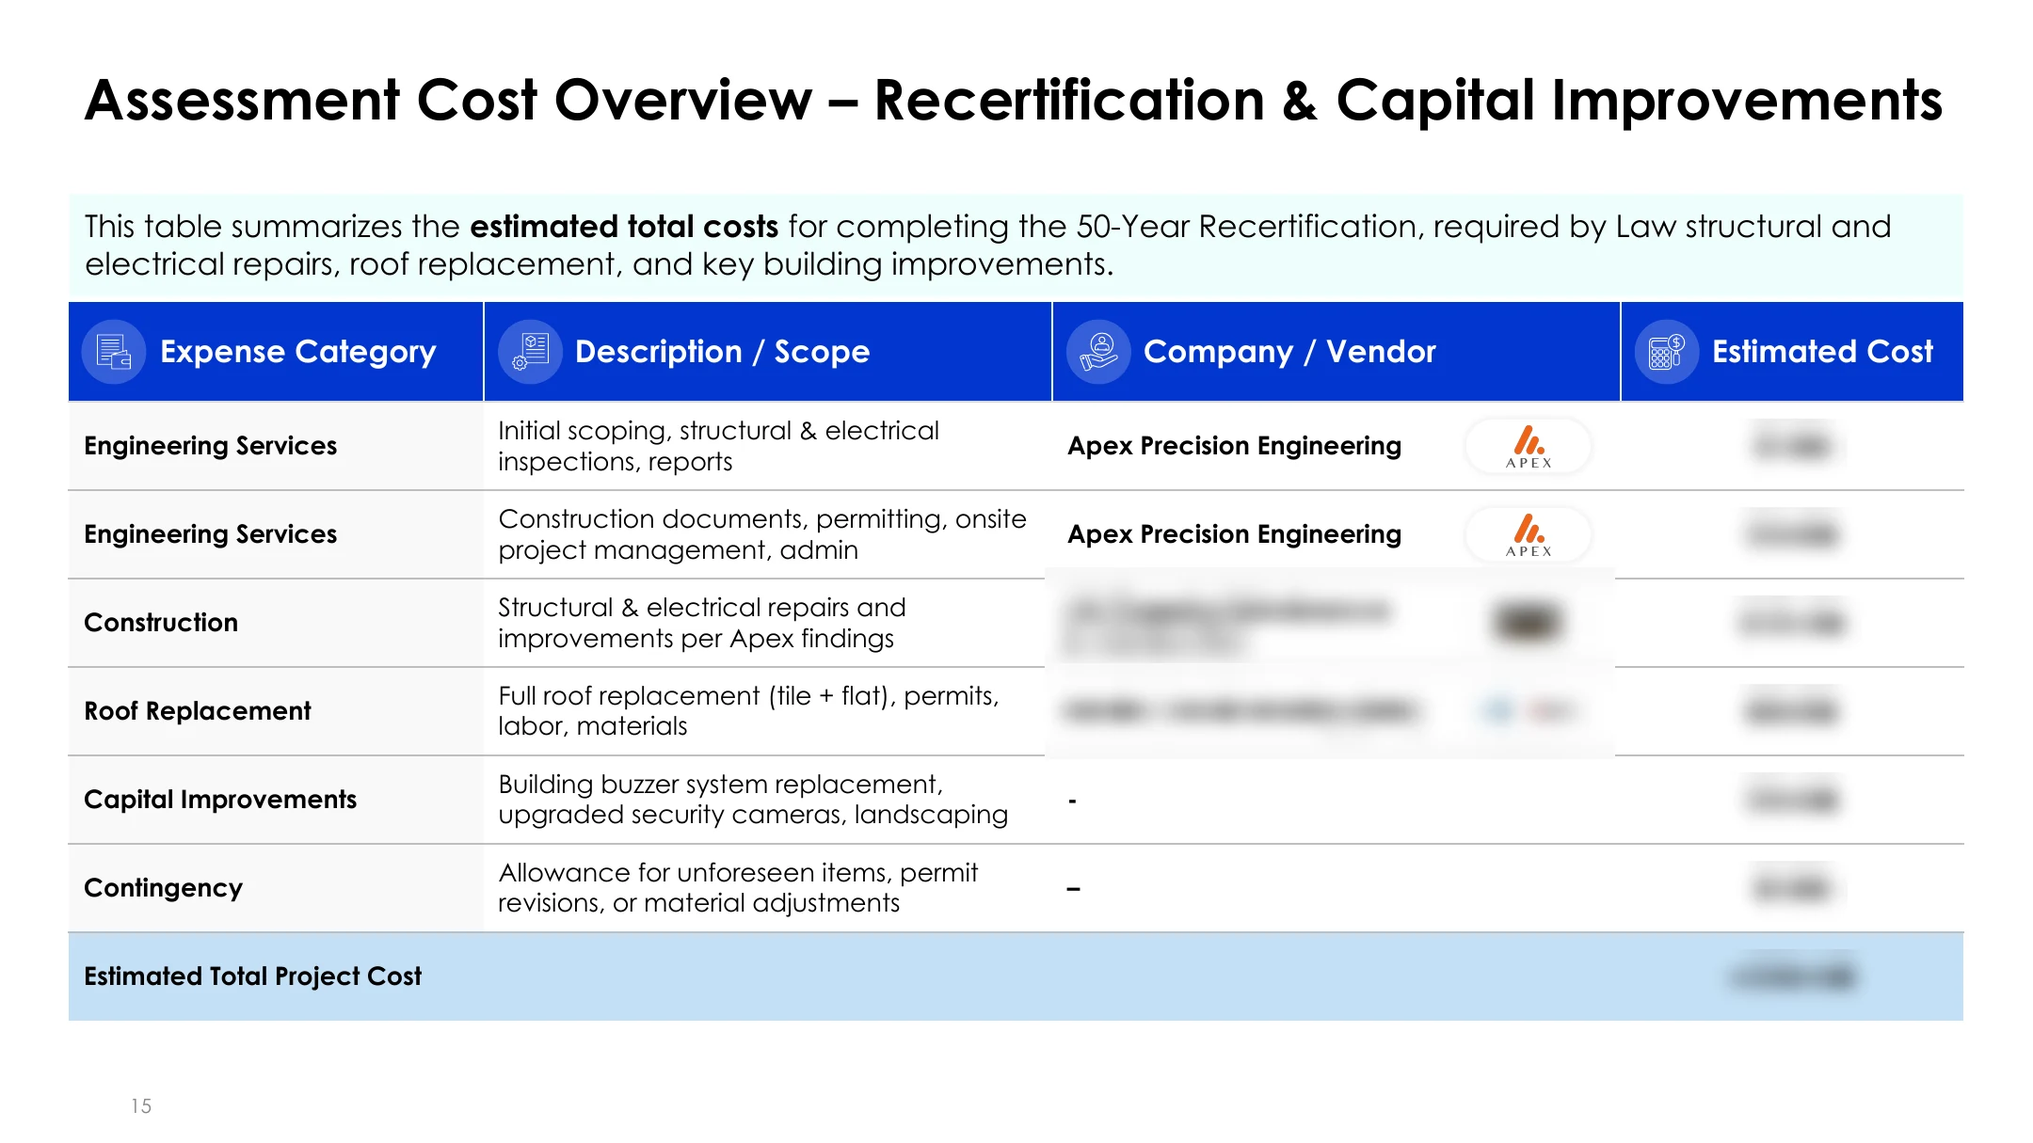
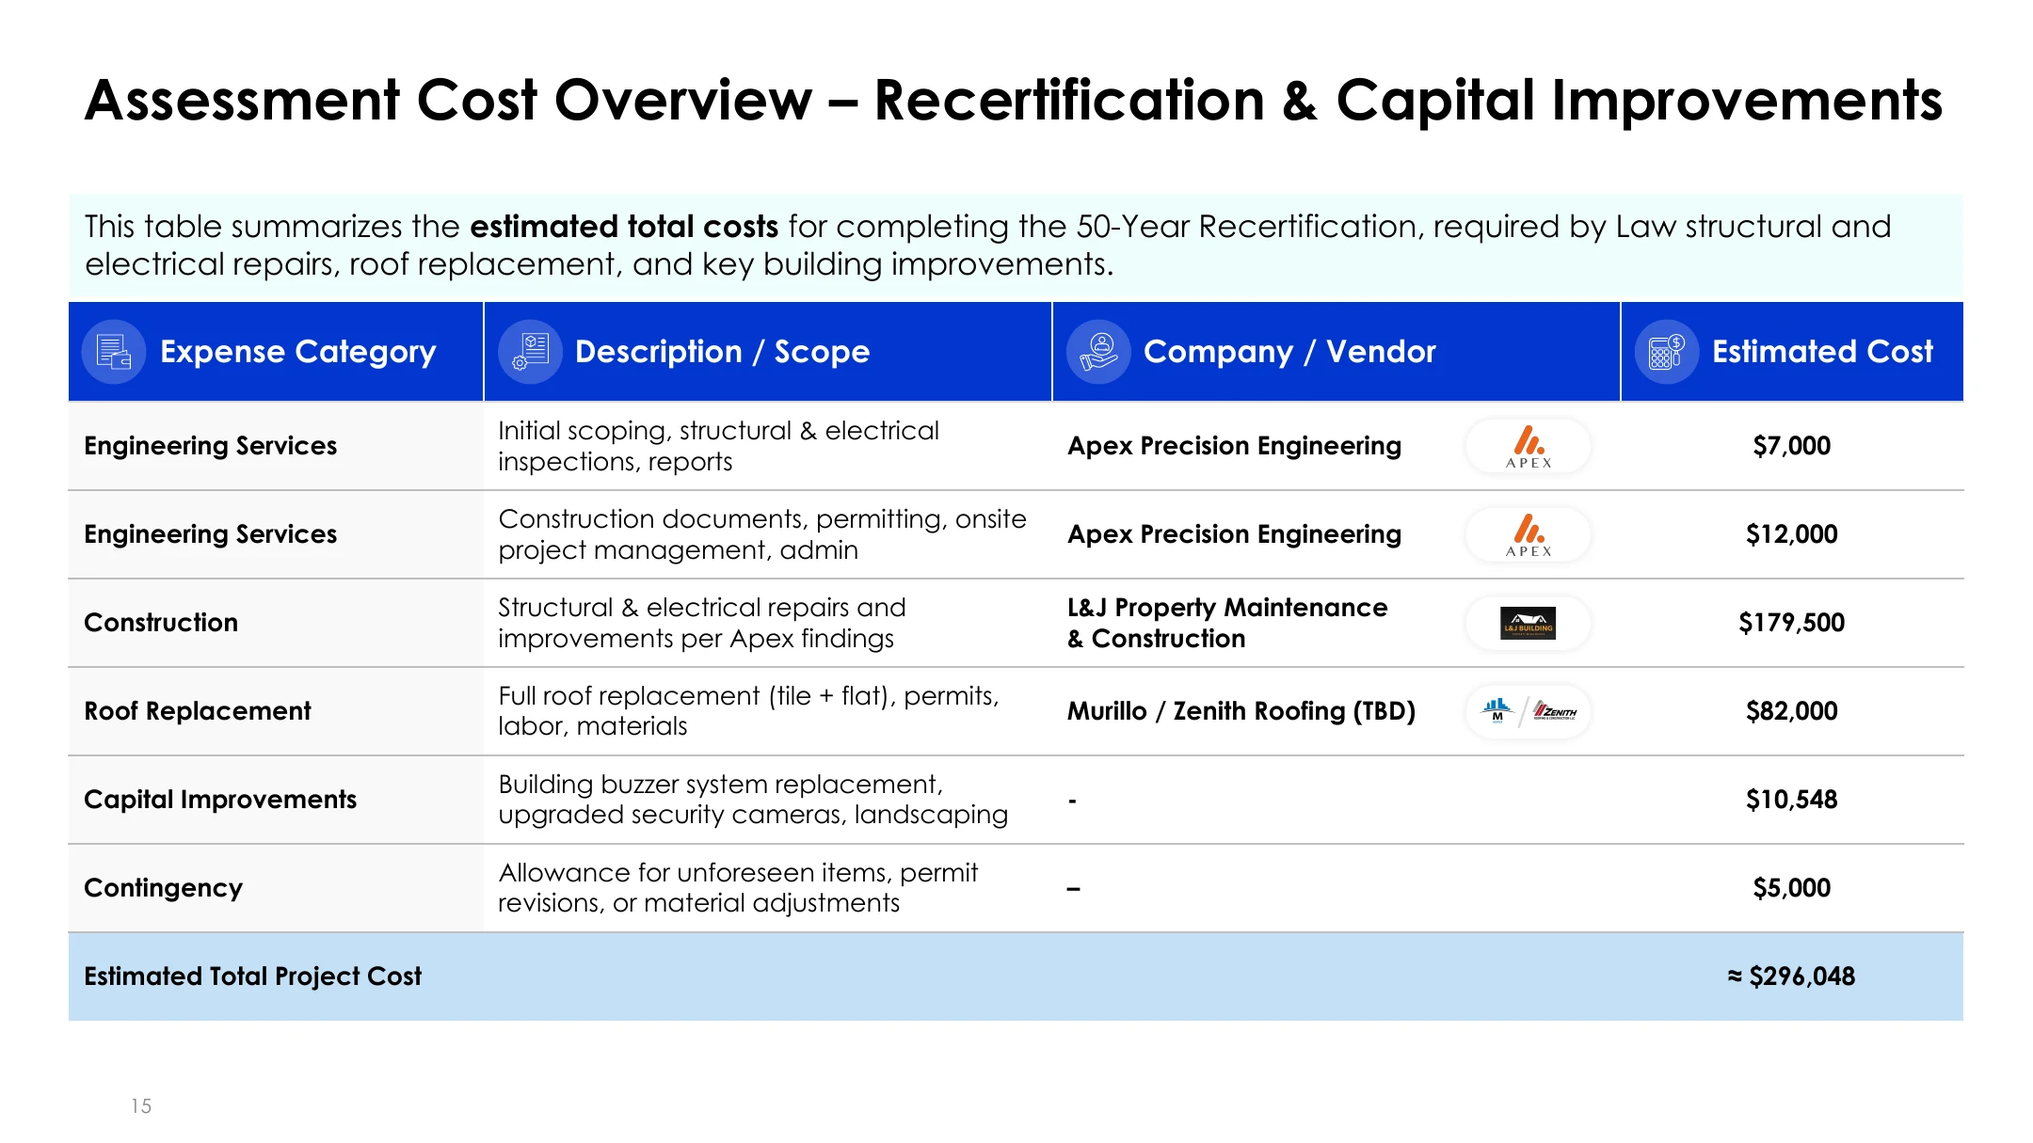
Recertification case study: drop estimate framing, unblur slide 15, remove presentation section
- Hero and AI & Innovation card now show $296K approved project budget
- Slide 15 shown unblurred
- Removed the Presentation gallery section and the "How I lead" button
- README row updated

Claude-Session: https://claude.ai/code/session_01CUZA3bDTvhnehi4XJLASky

diff --git a/ai-recertification-leadership.html b/ai-recertification-leadership.html
@@ -91,11 +91,6 @@ a{color:#111111}a:hover{color:#565656}
 .kpi--fact .kpi-s{color:#CFCBC2}
 .kpi-top{display:flex;justify-content:space-between;align-items:center;gap:8px}
 .kpi:not(.kpi--fact) .kpi-top{color:var(--muted)}
-.legend{display:flex;flex-wrap:wrap;gap:8px 24px;margin:18px 0 0;color:var(--muted);font-size:14px}
-.legend span{display:inline-flex;align-items:center;gap:8px}
-.key{display:inline-block;width:22px;height:12px;border-radius:4px}
-.key--s{background:var(--ink)}
-.key--d{border:1.5px dashed var(--dash)}
 
 /* Challenge */
 .scope{list-style:none;margin:8px 0 0;padding:0;display:flex;flex-wrap:wrap;gap:8px}
@@ -135,12 +130,6 @@ a{color:#111111}a:hover{color:#565656}
 .shot img{display:block;width:100%;height:auto}
 .shot-z{position:absolute;right:10px;bottom:10px;width:34px;height:34px;border-radius:50%;background:var(--ink);color:#fff;display:flex;align-items:center;justify-content:center;opacity:.92}
 .shot-z svg{width:16px;height:16px}
-.gal{display:grid;grid-template-columns:repeat(3,minmax(0,1fr));gap:20px}
-.gal figure{margin:0;display:flex;flex-direction:column;gap:12px}
-.gal figure.wide{grid-column:1 / -1}
-.gal figcaption{display:flex;flex-direction:column;gap:4px;font-size:15.5px;color:var(--body);max-width:62ch}
-.gal figcaption .mono{color:var(--muted)}
-.gal-note{margin:24px 0 0;color:var(--muted);font-size:14px;max-width:96ch}
 
 /* Lightbox */
 dialog.lb{width:min(1500px,96vw);max-width:none;max-height:94vh;padding:0;border:0;border-radius:22px;background:var(--paper);color:var(--ink);overflow:hidden}
@@ -170,7 +159,6 @@ dialog.lb::backdrop{background:rgba(17,17,17,.72)}
 .sec-head{gap:16px}
 .kpis{grid-template-columns:minmax(0,1fr)}
 .kpi{min-height:0;gap:20px}
-.gal{grid-template-columns:minmax(0,1fr)}
 .close .mono,.close p,.guard .mono,.guard p{grid-column:1 / -1}
 .close,.guard{gap:12px}
 }
@@ -226,9 +214,9 @@ html,body{overflow-x:clip}
 <p class="lede">Applying AI across technical research, contractor evaluation, financial analysis, and stakeholder communications.</p>
 </div>
 <ul class="kpis" aria-label="Key figures">
-<li class="kpi">
-<div class="kpi-top"><span class="tag"><span class="dot dot--o"></span>Estimate</span></div>
-<div><div class="kpi-n">~$300K</div><p class="kpi-l">Proposed project budget<span class="kpi-s">An estimate, not actual spend</span></p></div>
+<li class="kpi kpi--fact">
+<div class="kpi-top"><span class="tag"><span class="dot"></span>Approved</span></div>
+<div><div class="kpi-n">$296K</div><p class="kpi-l">Approved project budget<span class="kpi-s">Budget figure, not actual expenditure</span></p></div>
 </li>
 <li class="kpi kpi--fact">
 <div class="kpi-top"><span class="tag"><span class="dot"></span>Documented</span></div>
@@ -239,7 +227,6 @@ html,body{overflow-x:clip}
 <div><div class="kpi-n">20</div><p class="kpi-l">Slide stakeholder presentation<span class="kpi-s">Presented November 13, 2025</span></p></div>
 </li>
 </ul>
-<p class="legend" aria-label="Legend"><span><i class="key key--s" aria-hidden="true"></i>Solid: documented project fact</span><span><i class="key key--d" aria-hidden="true"></i>Dashed: estimate, not actual expenditure</span></p>
 </section>
 
 <!-- 2. Challenge -->
@@ -293,11 +280,11 @@ html,body{overflow-x:clip}
 <summary><span class="mono acc-n">03</span><h3 class="acc-t">Financial analysis and presentation development<span class="acc-s">Budget, payment options, and a homeowner presentation.</span></h3><span class="plus" aria-hidden="true"><svg width="14" height="14" viewBox="0 0 12 12"><path d="M6 1v10M1 6h10" fill="none" stroke="currentColor" stroke-width="1.5"/></svg></span></summary>
 <div class="acc-body">
 <dl class="rows">
-<div><dt class="mono">The challenge</dt><dd>An estimated project budget of roughly $300K, three possible financing and payment structures, and homeowners who needed to understand the trade-offs.</dd></div>
+<div><dt class="mono">The challenge</dt><dd>A project budget of about $296K, three possible financing and payment structures, and homeowners who needed to understand the trade-offs.</dd></div>
 <div><dt class="mono">How AI was applied</dt><dd>I used AI to structure the financial information, examine the three payment options, and shape a clear, plain-language presentation for homeowners.</dd></div>
-<div><dt class="mono">What it produced</dt><dd>A 20-slide presentation that set out the estimated budget and the three payment options side by side. All figures were estimates, not actual expenditure.</dd></div>
+<div><dt class="mono">What it produced</dt><dd>A 20-slide presentation that set out the project budget and the three payment options side by side.</dd></div>
 </dl>
-<div class="art"><span class="mono">Project artifact</span><div class="art-grid art-grid--2"><button type="button" class="shot" data-shot="u" aria-label="Enlarge slide 15: Project budget summary"><img src="/assets/recert-budget.webp" width="2160" height="1215" loading="lazy" decoding="async" alt="Slide 15, "Assessment Cost Overview": estimated project costs by category. Dollar amounts and contractor names are blurred."><span class="shot-z" aria-hidden="true"><svg viewBox="0 0 24 24" fill="none" stroke="currentColor" stroke-width="2" stroke-linecap="round" stroke-linejoin="round"><circle cx="11" cy="11" r="7"/><path d="M21 21l-4.3-4.3M11 8v6M8 11h6"/></svg></span></button><button type="button" class="shot" data-shot="p" aria-label="Enlarge slide 16: Payment options"><img src="/assets/recert-payment-options.webp" width="2160" height="1215" loading="lazy" decoding="async" alt="Slide 16, "Payment Options": three payment structures with advantages and considerations for each. Dollar amounts are blurred."><span class="shot-z" aria-hidden="true"><svg viewBox="0 0 24 24" fill="none" stroke="currentColor" stroke-width="2" stroke-linecap="round" stroke-linejoin="round"><circle cx="11" cy="11" r="7"/><path d="M21 21l-4.3-4.3M11 8v6M8 11h6"/></svg></span></button></div><p class="art-note">Slides 15 and 16: dollar amounts are blurred.</p></div>
+<div class="art"><span class="mono">Project artifact</span><div class="art-grid art-grid--2"><button type="button" class="shot" data-shot="u" aria-label="Enlarge slide 15: Project budget summary"><img src="/assets/recert-budget.webp" width="2160" height="1215" loading="lazy" decoding="async" alt="Slide 15, "Assessment Cost Overview": project costs by category, with the vendor for each and the total project cost."><span class="shot-z" aria-hidden="true"><svg viewBox="0 0 24 24" fill="none" stroke="currentColor" stroke-width="2" stroke-linecap="round" stroke-linejoin="round"><circle cx="11" cy="11" r="7"/><path d="M21 21l-4.3-4.3M11 8v6M8 11h6"/></svg></span></button><button type="button" class="shot" data-shot="p" aria-label="Enlarge slide 16: Payment options"><img src="/assets/recert-payment-options.webp" width="2160" height="1215" loading="lazy" decoding="async" alt="Slide 16, "Payment Options": three payment structures with advantages and considerations for each. Dollar amounts are blurred."><span class="shot-z" aria-hidden="true"><svg viewBox="0 0 24 24" fill="none" stroke="currentColor" stroke-width="2" stroke-linecap="round" stroke-linejoin="round"><circle cx="11" cy="11" r="7"/><path d="M21 21l-4.3-4.3M11 8v6M8 11h6"/></svg></span></button></div><p class="art-note">Slides 15 and 16. Dollar amounts on slide 16 are blurred.</p></div>
 </div>
 </details>
 </div>
@@ -307,25 +294,10 @@ html,body{overflow-x:clip}
 </div>
 </section>
 
-<!-- 4. Presentation -->
-<section class="wrap sec" aria-labelledby="pr-h">
-<div class="sec-head">
-<div class="lbl"><span class="mono muted">03 — The presentation</span><h2 class="sec-h" id="pr-h">What Homeowners Saw.</h2></div>
-<div class="copy"><p>Selected slides from the November 13, 2025 homeowner presentation. Select a slide to enlarge it.</p></div>
-</div>
-<div class="gal">
-<figure class="wide"><button type="button" class="shot" data-shot="t" aria-label="Enlarge slide 4: Project timeline"><img src="/assets/recert-timeline.webp" width="2160" height="1215" loading="lazy" decoding="async" alt="Slide 4, "12-Month Progress Overview": a timeline of the recertification in four phases, from notification through the start of construction."><span class="shot-z" aria-hidden="true"><svg viewBox="0 0 24 24" fill="none" stroke="currentColor" stroke-width="2" stroke-linecap="round" stroke-linejoin="round"><circle cx="11" cy="11" r="7"/><path d="M21 21l-4.3-4.3M11 8v6M8 11h6"/></svg></span></button><figcaption><span class="mono">Slide 4 of 20 — Project timeline</span>The recertification process in four phases, from notification to the start of construction.</figcaption></figure>
-<figure><button type="button" class="shot" data-shot="b" aria-label="Enlarge slide 10: Contractor comparison"><img src="/assets/recert-bids.webp" width="2160" height="1215" loading="lazy" decoding="async" alt="Slide 10, "Contractor Bid Overview": a table comparing three contractor bids on scope and considerations. Contractor names and bid amounts are blurred."><span class="shot-z" aria-hidden="true"><svg viewBox="0 0 24 24" fill="none" stroke="currentColor" stroke-width="2" stroke-linecap="round" stroke-linejoin="round"><circle cx="11" cy="11" r="7"/><path d="M21 21l-4.3-4.3M11 8v6M8 11h6"/></svg></span></button><figcaption><span class="mono">Slide 10 of 20 — Contractor comparison</span>Three contractor bids compared on scope and considerations. Names and amounts are blurred.</figcaption></figure>
-<figure><button type="button" class="shot" data-shot="u" aria-label="Enlarge slide 15: Project budget summary"><img src="/assets/recert-budget.webp" width="2160" height="1215" loading="lazy" decoding="async" alt="Slide 15, "Assessment Cost Overview": estimated project costs by category. Dollar amounts and contractor names are blurred."><span class="shot-z" aria-hidden="true"><svg viewBox="0 0 24 24" fill="none" stroke="currentColor" stroke-width="2" stroke-linecap="round" stroke-linejoin="round"><circle cx="11" cy="11" r="7"/><path d="M21 21l-4.3-4.3M11 8v6M8 11h6"/></svg></span></button><figcaption><span class="mono">Slide 15 of 20 — Budget summary</span>Estimated project costs by category. Dollar amounts and contractor names are blurred.</figcaption></figure>
-<figure><button type="button" class="shot" data-shot="p" aria-label="Enlarge slide 16: Payment options"><img src="/assets/recert-payment-options.webp" width="2160" height="1215" loading="lazy" decoding="async" alt="Slide 16, "Payment Options": three payment structures with advantages and considerations for each. Dollar amounts are blurred."><span class="shot-z" aria-hidden="true"><svg viewBox="0 0 24 24" fill="none" stroke="currentColor" stroke-width="2" stroke-linecap="round" stroke-linejoin="round"><circle cx="11" cy="11" r="7"/><path d="M21 21l-4.3-4.3M11 8v6M8 11h6"/></svg></span></button><figcaption><span class="mono">Slide 16 of 20 — Payment options</span>Three payment structures: four installments, a 10-year loan, or a 4.5-year loan. Dollar amounts are blurred.</figcaption></figure>
-</div>
-<p class="gal-note">Dollar amounts and contractor names are blurred. All figures were estimates at the time of the presentation and are not actual expenditure. The slides show the work product, not which parts involved AI.</p>
-</section>
-
 <!-- 5. Takeaway -->
 <section class="wrap sec" aria-labelledby="tk-h">
 <div class="sec-head">
-<div class="lbl"><span class="mono muted">04 — My takeaway</span><h2 class="sec-h" id="tk-h">Leading Through Complexity.</h2></div>
+<div class="lbl"><span class="mono muted">03 — My takeaway</span><h2 class="sec-h" id="tk-h">Leading Through Complexity.</h2></div>
 </div>
 <div class="close">
 <span class="mono">The takeaway</span>
@@ -333,7 +305,6 @@ html,body{overflow-x:clip}
 </div>
 <div class="end">
 <a class="btn" href="/ai-innovation"><span aria-hidden="true">←</span> Back to AI &amp; Innovation</a>
-<a class="btn btn--ghost" href="/#leadership">How I lead <span aria-hidden="true">→</span></a>
 </div>
 </section>
 </main>
@@ -344,7 +315,7 @@ html,body{overflow-x:clip}
 <button type="button" class="btn btn--ghost" data-lb-close>Close</button>
 </div>
 <div class="lb-body"><img id="lb-img" alt="" width="2160" height="1215"></div>
-<p class="lb-cap">Dollar amounts and contractor names are blurred. Figures were estimates as presented in November 2025.</p>
+<p class="lb-cap" id="lb-cap"></p>
 </dialog>
 
 <footer class="foot wrap" id="about">
@@ -366,8 +337,8 @@ html,body{overflow-x:clip}
 (function () {
   var dlg = document.getElementById('lb');
   if (!dlg || typeof dlg.showModal !== 'function') return;
-  var S = {"t": {"img": "/assets/recert-timeline.webp", "n": 4, "title": "Project timeline", "alt": "Slide 4, \"12-Month Progress Overview\": a timeline of the recertification in four phases, from notification through the start of construction."}, "b": {"img": "/assets/recert-bids.webp", "n": 10, "title": "Contractor comparison", "alt": "Slide 10, \"Contractor Bid Overview\": a table comparing three contractor bids on scope and considerations. Contractor names and bid amounts are blurred."}, "u": {"img": "/assets/recert-budget.webp", "n": 15, "title": "Project budget summary", "alt": "Slide 15, \"Assessment Cost Overview\": estimated project costs by category. Dollar amounts and contractor names are blurred."}, "p": {"img": "/assets/recert-payment-options.webp", "n": 16, "title": "Payment options", "alt": "Slide 16, \"Payment Options\": three payment structures with advantages and considerations for each. Dollar amounts are blurred."}};
-  var img = document.getElementById('lb-img'), ttl = document.getElementById('lb-title'), num = document.getElementById('lb-n');
+  var S = {"t": {"img": "/assets/recert-timeline.webp", "n": 4, "title": "Project timeline", "alt": "Slide 4, \"12-Month Progress Overview\": a timeline of the recertification in four phases, from notification through the start of construction.", "note": ""}, "b": {"img": "/assets/recert-bids.webp", "n": 10, "title": "Contractor comparison", "alt": "Slide 10, \"Contractor Bid Overview\": a table comparing three contractor bids on scope and considerations. Contractor names and bid amounts are blurred.", "note": " Contractor names and bid amounts are blurred."}, "u": {"img": "/assets/recert-budget.webp", "n": 15, "title": "Project budget summary", "alt": "Slide 15, \"Assessment Cost Overview\": project costs by category, with the vendor for each and the total project cost.", "note": ""}, "p": {"img": "/assets/recert-payment-options.webp", "n": 16, "title": "Payment options", "alt": "Slide 16, \"Payment Options\": three payment structures with advantages and considerations for each. Dollar amounts are blurred.", "note": " Dollar amounts are blurred."}};
+  var cap = document.getElementById('lb-cap'), img = document.getElementById('lb-img'), ttl = document.getElementById('lb-title'), num = document.getElementById('lb-n');
   var opener = null;
   document.querySelectorAll('[data-shot]').forEach(function (b) {
     b.addEventListener('click', function () {
@@ -375,6 +346,7 @@ html,body{overflow-x:clip}
       opener = b;
       img.src = s.img; img.alt = s.alt;
       ttl.textContent = s.title; num.textContent = 'Slide ' + s.n + ' of 20';
+      cap.textContent = 'From the November 13, 2025 homeowner presentation.' + s.note;
       dlg.showModal();
       document.documentElement.style.overflow = 'hidden';
     });

diff --git a/ai-innovation.html b/ai-innovation.html
@@ -169,7 +169,7 @@ html,body{overflow-x:clip}
 <h3 class="card-title" id="t-recertification">Navigating a Complex Building Recertification with AI</h3>
 <p class="overview">Used AI as a thinking partner to help lead a condominium building recertification: technical research, bid evaluation, financial analysis, and homeowner communications.</p>
 <ul class="kpi-row" aria-label="Featured figures">
-<li><strong>~$300K</strong><span>proposed project budget (estimate)</span></li>
+<li><strong>$296K</strong><span>approved project budget</span></li>
 <li><strong>14</strong><span>condominium units</span></li>
 </ul>
 <div class="card-actions"><a class="btn" href="/ai-recertification-leadership">Explore Case Study <span aria-hidden="true">→</span></a></div>

diff --git a/README.md b/README.md
@@ -18,7 +18,7 @@ Daniel Sullivan's marketing portfolio. Plain HTML and CSS with no build step. Ve
 | `/partner-led-revenue-engine` | `partner-led-revenue-engine.html` | Case study: Building a Partner-Led Revenue Engine From the Ground Up (Sumo Logic). One canonical page with two cards: Partner Marketing Strategy (hand-written `.card`, leadership/30-day framing) and Demand & Revenue Marketing (entry `partner-trial-demand` in `data/case-studies.json`, conversion framing). A small inline script points the breadcrumb and back button at whichever section the visitor came from (default: Partner Marketing Strategy). Scroll reveal on the journey only |
 | `/competitive-displacement-abm` | `competitive-displacement-abm.html` | Case study: Winning Competitive Accounts Through Precision ABM (Sumo Logic; May 2024 SIEM events, four intelligence inputs → 120 accounts, three ABM tiers 10/25/85, four activation pillars, results journey; no dollar figures). Card is entry `competitive-displacement-abm` in `data/case-studies.json` |
 | `/ai-innovation` | `ai-innovation.html` | Section index: AI & Innovation ("Projects & experiments"; cards: the event lead qualification case study and the building recertification case study; the "coming soon" state returns only if `.cases` is emptied) |
-| `/ai-recertification-leadership` | `ai-recertification-leadership.html` | Case study: Navigating a Complex Building Recertification with AI (volunteer condominium leadership; hero facts vs estimate cards, challenge, three native `<details>` accordions with AI-applied examples, redacted slide gallery with a `<dialog>` viewer, takeaway). Slides are real screenshots in `assets/recert-*.webp` with contractor names and all dollar amounts blurred into the pixels; the page says only "condominium association", never the association's name. No sums or outcomes beyond the Nov 2025 estimates |
+| `/ai-recertification-leadership` | `ai-recertification-leadership.html` | Case study: Navigating a Complex Building Recertification with AI (volunteer condominium leadership; three hero fact cards, challenge, three native `<details>` accordions with AI-applied examples and slide thumbnails that open in a `<dialog>` viewer, takeaway). Slides are real screenshots in `assets/recert-*.webp`: slide 10 has contractor names and bid amounts blurred and slide 16 has dollar amounts blurred (baked into the pixels); slides 4 and 15 are unblurred. The page says only "condominium association", never the association's name. No outcomes beyond the figures in the Nov 2025 presentation |
 | `/cisco-unified-audience-strategy` | `cisco-unified-audience-strategy.html` | Case study: Cisco unified audience strategy (before/after, three persona cards, playbook capabilities, strategy-to-activation diagram, qualitative impact, restricted playbook gallery with placeholder covers and a mailto access request; no Cisco files are in the repo) |
 | `/ai-event-lead-qualification` | `ai-event-lead-qualification.html` | Case study: Transforming Event Lead Qualification with AI (illustrative Before / After demo with a German → English toggle, six-step workflow, estimated-vs-reported results, Automate → Augment → Elevate). Inline script for the demo animation; everything shows its final state without JS or with reduced motion |
 | `/global-planning-framework` | `global-planning-framework.html` | Case study: Global Field & Partner Marketing Planning Framework |
